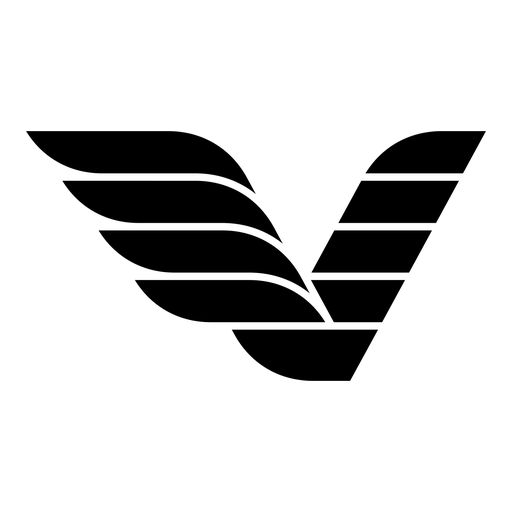
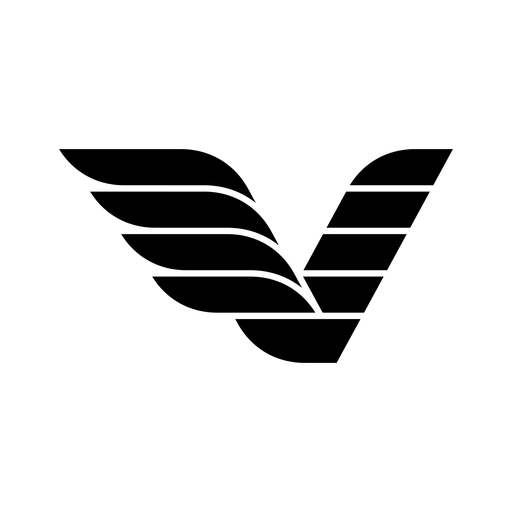
Livery: auto-place emblems on the detected fin (no more per-plane nudging)
Replaces the hand-nudged tail placements with AUTO-DETECTION: a pass finds each
illustration's vertical stabiliser (columns whose top edge rises well above the
fuselage crown, rear-most tall run) and centres the emblem on the fin BODY —
horizontal center taken at the emblem's actual Y (so it follows the fin sweep,
not the tip), pushed 68% down tip->crown onto the body, sized to ~62% of the fin
height. Output baked into LiveryPlacement as constants (no runtime image work).
One algorithm places all 35 correctly; new art just re-runs the pass.

Also: emblems re-normalized to a consistent, smaller on-fin size (area-aware, so
dense ones like globe/shield/heart match the sparse wing/swooshes), and the
design screen compacted to fit without scrolling (tighter section spacing +
preview panel padding; plane size unchanged).

Changed region(s): [[0.0312, 0.25, 0.9688, 0.75]]

diff --git a/AirlineArchitect/AirlineArchitect/AircraftLivery.swift b/AirlineArchitect/AirlineArchitect/AircraftLivery.swift
@@ -26,47 +26,49 @@ struct LiveryPlacement {
     var tailCX: CGFloat, tailCY: CGFloat, tailScale: CGFloat
 
     static func forType(_ id: String) -> LiveryPlacement {
-        // Per-type placement, MEASURED from each illustration (window-row centre →
-        // titleCY so the multiply blend punches the cabin windows through the
-        // letters; forward-cabin position → titleCX; fin body → tail emblem). The
-        // turboprops + small ERJs (AT46/B1900/DH8B/ERJ135/ERJ140) and MAX9 are
-        // hand-tuned (marked). New types fall through to the narrowbody default.
+        // Per-type placement. TITLES are hand-tuned (window-row centre → titleCY so
+        // the multiply blend punches the windows through the letters; forward-cabin →
+        // titleCX). TAIL EMBLEMS are AUTO-PLACED: a fin-detection pass (this session's
+        // git history) finds each illustration's vertical stabiliser and centres the
+        // emblem on the fin BODY — tailCX/tailCY/tailScale below are its output, baked
+        // in as constants (no runtime image work). To re-derive after new/changed art,
+        // re-run that pass. New types fall through to the narrowbody default.
         switch id {
-        case "A220100": return .init(titleCX: 0.33, titleCY: 0.65, titleW: 0.42, titleScale: 0.125, tailCX: 0.858, tailCY: 0.325, tailScale: 0.283) // tuned
-        case "A220300": return .init(titleCX: 0.33, titleCY: 0.65, titleW: 0.42, titleScale: 0.125, tailCX: 0.858, tailCY: 0.325, tailScale: 0.283) // tuned
-        case "A319": return .init(titleCX: 0.339, titleCY: 0.63, titleW: 0.42, titleScale: 0.135, tailCX: 0.822, tailCY: 0.285, tailScale: 0.246) // tuned
-        case "A319NEO": return .init(titleCX: 0.339, titleCY: 0.63, titleW: 0.42, titleScale: 0.135, tailCX: 0.822, tailCY: 0.285, tailScale: 0.246) // tuned
-        case "A320": return .init(titleCX: 0.318, titleCY: 0.628, titleW: 0.42, titleScale: 0.135, tailCX: 0.863, tailCY: 0.286, tailScale: 0.277) // tuned
-        case "A320NEO": return .init(titleCX: 0.318, titleCY: 0.628, titleW: 0.42, titleScale: 0.135, tailCX: 0.863, tailCY: 0.286, tailScale: 0.277) // tuned
-        case "A321": return .init(titleCX: 0.302, titleCY: 0.615, titleW: 0.42, titleScale: 0.135, tailCX: 0.898, tailCY: 0.315, tailScale: 0.253) // tuned
-        case "A321NEO": return .init(titleCX: 0.302, titleCY: 0.615, titleW: 0.42, titleScale: 0.135, tailCX: 0.898, tailCY: 0.315, tailScale: 0.253) // tuned
-        case "A339": return .init(titleCX: 0.277, titleCY: 0.63, titleW: 0.42, titleScale: 0.144, tailCX: 0.895, tailCY: 0.335, tailScale: 0.279) // tuned
-        case "A340": return .init(titleCX: 0.292, titleCY: 0.653, titleW: 0.42, titleScale: 0.144, tailCX: 0.855, tailCY: 0.34, tailScale: 0.342) // tuned
-        case "A359": return .init(titleCX: 0.301, titleCY: 0.632, titleW: 0.42, titleScale: 0.145, tailCX: 0.859, tailCY: 0.315, tailScale: 0.292) // tuned
-        case "A380": return .init(titleCX: 0.295, titleCY: 0.685, titleW: 0.42, titleScale: 0.125, tailCX: 0.868, tailCY: 0.35, tailScale: 0.278) // tuned
-        case "AT46": return .init(titleCX: 0.28, titleCY: 0.665, titleW: 0.24, titleScale: 0.105, tailCX: 0.81, tailCY: 0.345, tailScale: 0.27) // tuned
-        case "B1900": return .init(titleCX: 0.36, titleCY: 0.585, titleW: 0.30, titleScale: 0.115, tailCX: 0.83, tailCY: 0.34, tailScale: 0.288) // tuned
-        case "B737700": return .init(titleCX: 0.328, titleCY: 0.671, titleW: 0.42, titleScale: 0.125, tailCX: 0.822, tailCY: 0.322, tailScale: 0.245) // tuned
-        case "B737800": return .init(titleCX: 0.298, titleCY: 0.674, titleW: 0.42, titleScale: 0.125, tailCX: 0.882, tailCY: 0.311, tailScale: 0.249) // tuned
-        case "B739": return .init(titleCX: 0.306, titleCY: 0.675, titleW: 0.42, titleScale: 0.125, tailCX: 0.875, tailCY: 0.312, tailScale: 0.291) // tuned
-        case "B747": return .init(titleCX: 0.255, titleCY: 0.673, titleW: 0.42, titleScale: 0.145, tailCX: 0.885, tailCY: 0.31, tailScale: 0.309) // tuned
-        case "B773": return .init(titleCX: 0.262, titleCY: 0.668, titleW: 0.42, titleScale: 0.145, tailCX: 0.893, tailCY: 0.35, tailScale: 0.28) // tuned
-        case "B788": return .init(titleCX: 0.282, titleCY: 0.649, titleW: 0.42, titleScale: 0.135, tailCX: 0.888, tailCY: 0.34, tailScale: 0.32) // tuned
-        case "B789": return .init(titleCX: 0.27, titleCY: 0.645, titleW: 0.42, titleScale: 0.145, tailCX: 0.893, tailCY: 0.32, tailScale: 0.298) // tuned
-        case "B78J": return .init(titleCX: 0.285, titleCY: 0.654, titleW: 0.42, titleScale: 0.16, tailCX: 0.89, tailCY: 0.335, tailScale: 0.297) // tuned
-        case "CRJ1000": return .init(titleCX: 0.291, titleCY: 0.61, titleW: 0.42, titleScale: 0.16, tailCX: 0.878, tailCY: 0.375, tailScale: 0.328) // tuned
-        case "CRJ900": return .init(titleCX: 0.287, titleCY: 0.605, titleW: 0.42, titleScale: 0.16, tailCX: 0.881, tailCY: 0.34, tailScale: 0.32) // tuned
-        case "D328": return .init(titleCX: 0.30, titleCY: 0.71, titleW: 0.30, titleScale: 0.11, tailCX: 0.856, tailCY: 0.37, tailScale: 0.285) // tuned
-        case "DH8B": return .init(titleCX: 0.27, titleCY: 0.69, titleW: 0.22, titleScale: 0.072, tailCX: 0.84, tailCY: 0.345, tailScale: 0.306) // tuned
-        case "E170": return .init(titleCX: 0.34, titleCY: 0.644, titleW: 0.42, titleScale: 0.112, tailCX: 0.878, tailCY: 0.315, tailScale: 0.297) // tuned
-        case "E175": return .init(titleCX: 0.34, titleCY: 0.644, titleW: 0.42, titleScale: 0.112, tailCX: 0.878, tailCY: 0.315, tailScale: 0.297) // tuned
-        case "E190": return .init(titleCX: 0.302, titleCY: 0.632, titleW: 0.42, titleScale: 0.112, tailCX: 0.893, tailCY: 0.325, tailScale: 0.249) // tuned
-        case "E195": return .init(titleCX: 0.328, titleCY: 0.64, titleW: 0.42, titleScale: 0.13, tailCX: 0.896, tailCY: 0.325, tailScale: 0.27) // tuned
-        case "ERJ135": return .init(titleCX: 0.33, titleCY: 0.615, titleW: 0.34, titleScale: 0.13, tailCX: 0.83, tailCY: 0.35, tailScale: 0.306) // tuned
-        case "ERJ140": return .init(titleCX: 0.33, titleCY: 0.615, titleW: 0.34, titleScale: 0.13, tailCX: 0.855, tailCY: 0.34, tailScale: 0.306) // tuned
-        case "ERJ145": return .init(titleCX: 0.333, titleCY: 0.645, titleW: 0.42, titleScale: 0.144, tailCX: 0.88, tailCY: 0.385, tailScale: 0.322) // tuned
-        case "MAX8": return .init(titleCX: 0.3, titleCY: 0.655, titleW: 0.42, titleScale: 0.14, tailCX: 0.878, tailCY: 0.32, tailScale: 0.298) // tuned
-        case "MAX9": return .init(titleCX: 0.32, titleCY: 0.665, titleW: 0.42, titleScale: 0.144, tailCX: 0.848, tailCY: 0.34, tailScale: 0.323) // tuned
+        case "A220100": return .init(titleCX: 0.33, titleCY: 0.65, titleW: 0.42, titleScale: 0.125, tailCX: 0.842, tailCY: 0.384, tailScale: 0.529) // tuned
+        case "A220300": return .init(titleCX: 0.33, titleCY: 0.65, titleW: 0.42, titleScale: 0.125, tailCX: 0.842, tailCY: 0.384, tailScale: 0.529) // tuned
+        case "A319": return .init(titleCX: 0.339, titleCY: 0.63, titleW: 0.42, titleScale: 0.135, tailCX: 0.81, tailCY: 0.347, tailScale: 0.495) // tuned
+        case "A319NEO": return .init(titleCX: 0.339, titleCY: 0.63, titleW: 0.42, titleScale: 0.135, tailCX: 0.81, tailCY: 0.347, tailScale: 0.495) // tuned
+        case "A320": return .init(titleCX: 0.318, titleCY: 0.628, titleW: 0.42, titleScale: 0.135, tailCX: 0.852, tailCY: 0.348, tailScale: 0.497) // tuned
+        case "A320NEO": return .init(titleCX: 0.318, titleCY: 0.628, titleW: 0.42, titleScale: 0.135, tailCX: 0.852, tailCY: 0.348, tailScale: 0.497) // tuned
+        case "A321": return .init(titleCX: 0.302, titleCY: 0.615, titleW: 0.42, titleScale: 0.135, tailCX: 0.886, tailCY: 0.321, tailScale: 0.44) // tuned
+        case "A321NEO": return .init(titleCX: 0.302, titleCY: 0.615, titleW: 0.42, titleScale: 0.135, tailCX: 0.886, tailCY: 0.321, tailScale: 0.44) // tuned
+        case "A339": return .init(titleCX: 0.277, titleCY: 0.63, titleW: 0.42, titleScale: 0.144, tailCX: 0.891, tailCY: 0.377, tailScale: 0.536) // tuned
+        case "A340": return .init(titleCX: 0.292, titleCY: 0.653, titleW: 0.42, titleScale: 0.144, tailCX: 0.85, tailCY: 0.382, tailScale: 0.534) // tuned
+        case "A359": return .init(titleCX: 0.301, titleCY: 0.632, titleW: 0.42, titleScale: 0.145, tailCX: 0.852, tailCY: 0.353, tailScale: 0.502) // tuned
+        case "A380": return .init(titleCX: 0.295, titleCY: 0.685, titleW: 0.42, titleScale: 0.125, tailCX: 0.865, tailCY: 0.388, tailScale: 0.56) // tuned
+        case "AT46": return .init(titleCX: 0.28, titleCY: 0.665, titleW: 0.24, titleScale: 0.105, tailCX: 0.822, tailCY: 0.244, tailScale: 0.306) // tuned
+        case "B1900": return .init(titleCX: 0.36, titleCY: 0.585, titleW: 0.30, titleScale: 0.115, tailCX: 0.829, tailCY: 0.312, tailScale: 0.321) // tuned
+        case "B737700": return .init(titleCX: 0.328, titleCY: 0.671, titleW: 0.42, titleScale: 0.125, tailCX: 0.809, tailCY: 0.386, tailScale: 0.547) // tuned
+        case "B737800": return .init(titleCX: 0.298, titleCY: 0.674, titleW: 0.42, titleScale: 0.125, tailCX: 0.867, tailCY: 0.378, tailScale: 0.568) // tuned
+        case "B739": return .init(titleCX: 0.306, titleCY: 0.675, titleW: 0.42, titleScale: 0.125, tailCX: 0.867, tailCY: 0.367, tailScale: 0.531) // tuned
+        case "B747": return .init(titleCX: 0.255, titleCY: 0.673, titleW: 0.42, titleScale: 0.145, tailCX: 0.883, tailCY: 0.363, tailScale: 0.489) // tuned
+        case "B773": return .init(titleCX: 0.262, titleCY: 0.668, titleW: 0.42, titleScale: 0.145, tailCX: 0.889, tailCY: 0.38, tailScale: 0.519) // tuned
+        case "B788": return .init(titleCX: 0.282, titleCY: 0.649, titleW: 0.42, titleScale: 0.135, tailCX: 0.88, tailCY: 0.378, tailScale: 0.537) // tuned
+        case "B789": return .init(titleCX: 0.27, titleCY: 0.645, titleW: 0.42, titleScale: 0.145, tailCX: 0.882, tailCY: 0.379, tailScale: 0.548) // tuned
+        case "B78J": return .init(titleCX: 0.285, titleCY: 0.654, titleW: 0.42, titleScale: 0.16, tailCX: 0.883, tailCY: 0.379, tailScale: 0.513) // tuned
+        case "CRJ1000": return .init(titleCX: 0.291, titleCY: 0.61, titleW: 0.42, titleScale: 0.16, tailCX: 0.881, tailCY: 0.349, tailScale: 0.388) // tuned
+        case "CRJ900": return .init(titleCX: 0.287, titleCY: 0.605, titleW: 0.42, titleScale: 0.16, tailCX: 0.884, tailCY: 0.325, tailScale: 0.403) // tuned
+        case "D328": return .init(titleCX: 0.30, titleCY: 0.71, titleW: 0.30, titleScale: 0.11, tailCX: 0.852, tailCY: 0.369, tailScale: 0.526) // tuned
+        case "DH8B": return .init(titleCX: 0.27, titleCY: 0.69, titleW: 0.22, titleScale: 0.072, tailCX: 0.851, tailCY: 0.278, tailScale: 0.378) // tuned
+        case "E170": return .init(titleCX: 0.34, titleCY: 0.644, titleW: 0.42, titleScale: 0.112, tailCX: 0.87, tailCY: 0.374, tailScale: 0.538) // tuned
+        case "E175": return .init(titleCX: 0.34, titleCY: 0.644, titleW: 0.42, titleScale: 0.112, tailCX: 0.87, tailCY: 0.374, tailScale: 0.538) // tuned
+        case "E190": return .init(titleCX: 0.302, titleCY: 0.632, titleW: 0.42, titleScale: 0.112, tailCX: 0.883, tailCY: 0.385, tailScale: 0.519) // tuned
+        case "E195": return .init(titleCX: 0.328, titleCY: 0.64, titleW: 0.42, titleScale: 0.13, tailCX: 0.891, tailCY: 0.37, tailScale: 0.497) // tuned
+        case "ERJ135": return .init(titleCX: 0.33, titleCY: 0.615, titleW: 0.34, titleScale: 0.13, tailCX: 0.832, tailCY: 0.344, tailScale: 0.419) // tuned
+        case "ERJ140": return .init(titleCX: 0.33, titleCY: 0.615, titleW: 0.34, titleScale: 0.13, tailCX: 0.858, tailCY: 0.335, tailScale: 0.424) // tuned
+        case "ERJ145": return .init(titleCX: 0.333, titleCY: 0.645, titleW: 0.42, titleScale: 0.144, tailCX: 0.88, tailCY: 0.364, tailScale: 0.432) // tuned
+        case "MAX8": return .init(titleCX: 0.3, titleCY: 0.655, titleW: 0.42, titleScale: 0.14, tailCX: 0.867, tailCY: 0.38, tailScale: 0.539) // tuned
+        case "MAX9": return .init(titleCX: 0.32, titleCY: 0.665, titleW: 0.42, titleScale: 0.144, tailCX: 0.847, tailCY: 0.357, tailScale: 0.521) // tuned
         default:
             return .init(titleCX: 0.32, titleCY: 0.63, titleW: 0.42, titleScale: 0.16,
                          tailCX: 0.87, tailCY: 0.30, tailScale: 0.18)

diff --git a/AirlineArchitect/AirlineArchitect/LiveryDesignView.swift b/AirlineArchitect/AirlineArchitect/LiveryDesignView.swift
@@ -54,7 +54,7 @@ struct LiveryDesignView: View {
             if let o = backdropOpacity { ArchitectBackdrop(opacity: o) }
 
             ScrollView(showsIndicators: false) {
-                VStack(spacing: 18) {
+                VStack(spacing: 12) {
                     header
 
                     // Live preview — the MAX 9 wearing the current selection, on a
@@ -67,14 +67,14 @@ struct LiveryDesignView: View {
                     tailSection
 
                     launchButton
-                    Spacer().frame(height: 20)
                 }
                 .padding(.horizontal, 18)
-                .padding(.top, 10)
+                .padding(.top, 8)
+                .padding(.bottom, 8)
                 .frame(maxWidth: 620)
                 .frame(maxWidth: .infinity)
             }
-            .safeAreaPadding(.top, 8)   // clear the status bar / notch
+            .safeAreaPadding(.top, 16)   // clear the status bar / notch
         }
         .onAppear {
             // Seed the fuselage text from the airline name (trimmed to the cap) the
@@ -91,16 +91,15 @@ struct LiveryDesignView: View {
     // MARK: Header
 
     private var header: some View {
-        VStack(spacing: 4) {
+        VStack(spacing: 2) {
             Text("Design your livery")
-                .font(.karla(26, .bold))
+                .font(.karla(22, .bold))
                 .foregroundStyle(titleColor)
             Text("Paint \(airlineName.isEmpty ? "your airline" : airlineName) onto the fleet.")
-                .font(.karla(16))
+                .font(.karla(15))
                 .foregroundStyle(subtitleColor)
                 .multilineTextAlignment(.center)
         }
-        .padding(.top, 4)
     }
 
     // MARK: Preview
@@ -111,7 +110,7 @@ struct LiveryDesignView: View {
         let g: [Color] = isDark ? [hex(0x1B2233), hex(0x11172A)] : [hex(0xEAF3FB), hex(0xF7FBFF)]
         return AircraftLiveryImage(typeID: previewType, name: previewText, livery: livery)
             .padding(.horizontal, 8)
-            .padding(.vertical, 22)
+            .padding(.vertical, 10)
             .frame(maxWidth: .infinity)
             .background(
                 RoundedRectangle(cornerRadius: 16)
@@ -269,7 +268,7 @@ struct LiveryDesignView: View {
     // MARK: Section chrome
 
     @ViewBuilder private func section<V: View>(_ title: String, @ViewBuilder _ content: () -> V) -> some View {
-        VStack(alignment: .leading, spacing: 10) {
+        VStack(alignment: .leading, spacing: 7) {
             Text(title)
                 .font(.karla(12, .semibold))
                 .foregroundStyle(labelColor)
